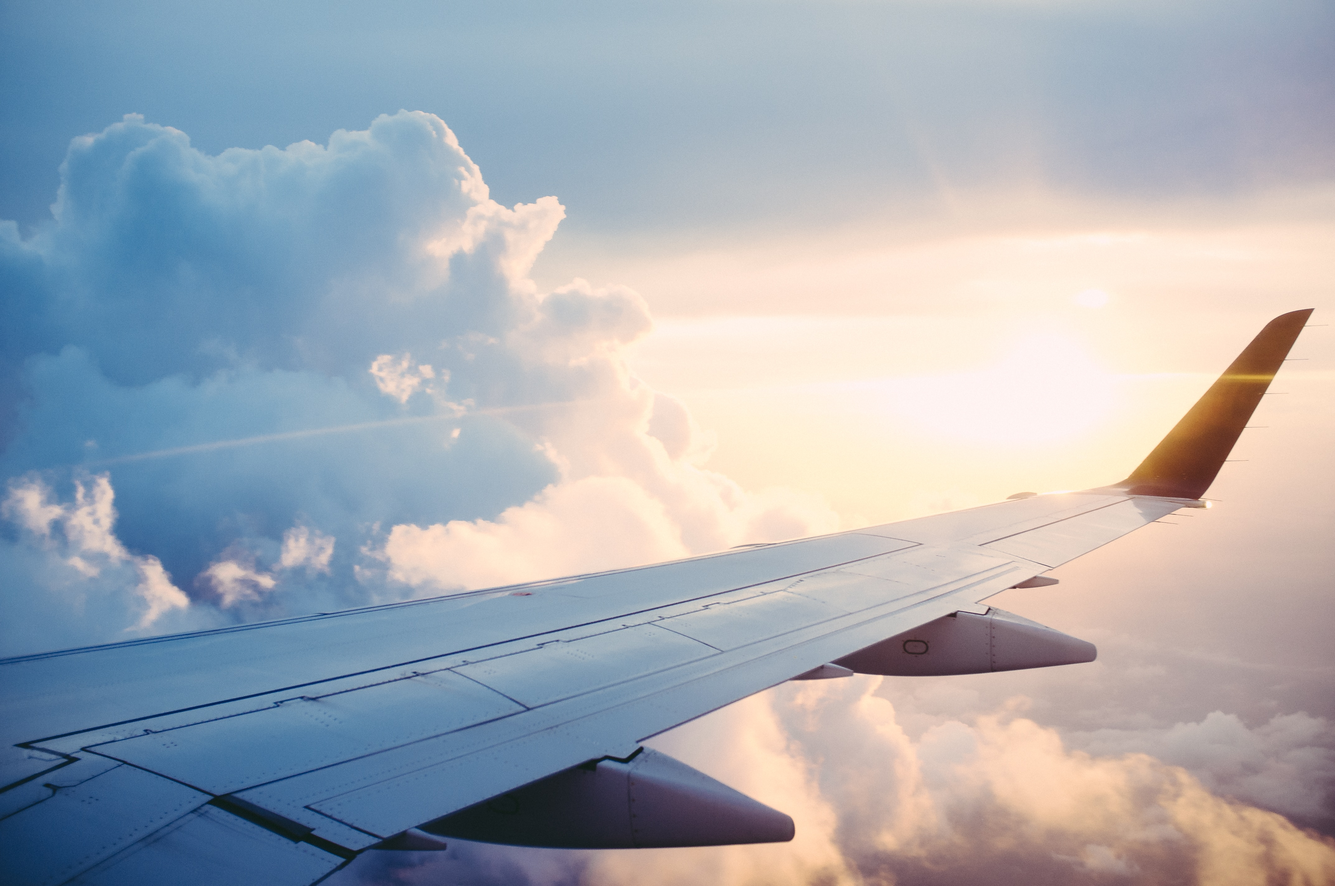
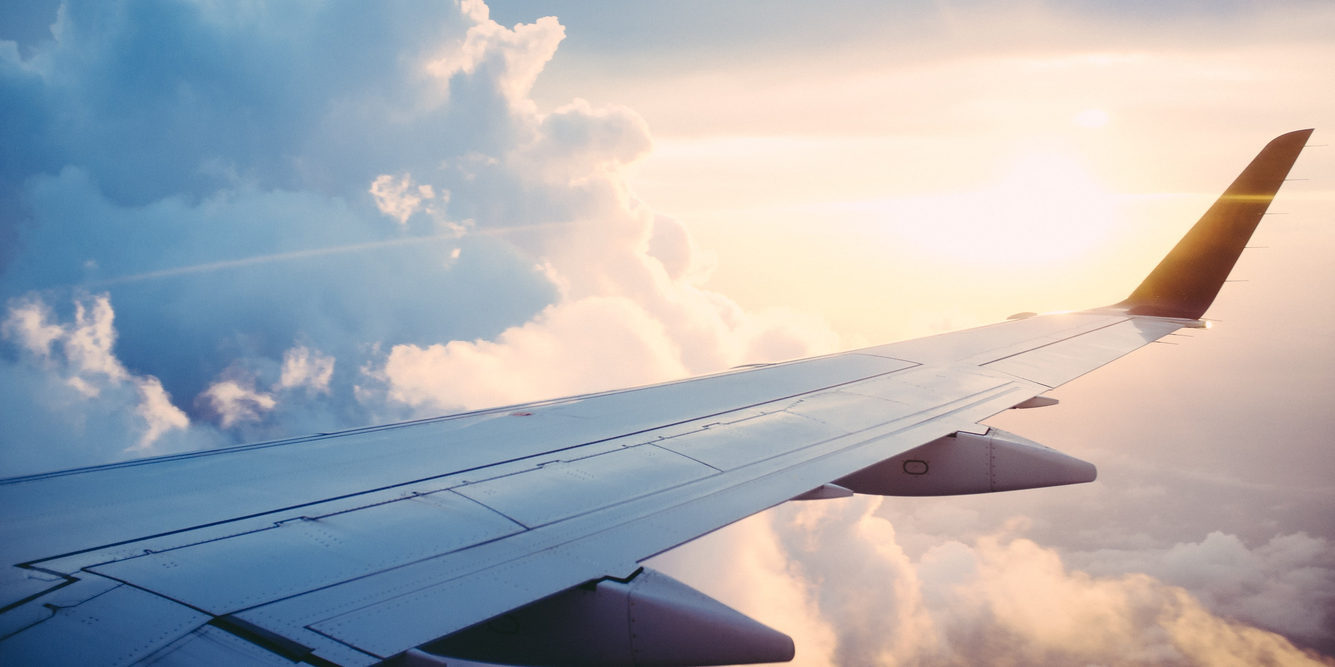
modified the carousel pic

diff --git a/Home Page/style.css b/Home Page/style.css
@@ -24,10 +24,14 @@
     margin-right: 10px;
 }
 
+.image-container {
+    width: 100%;
+}
+
 .carousel-pic
 {
-    max-width: 100%;
     width: 100%;
+    height: auto;
 }
 
 #active-link-navbar
